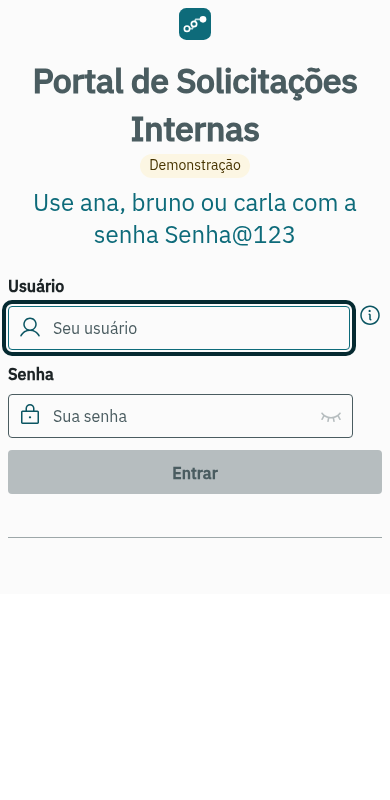
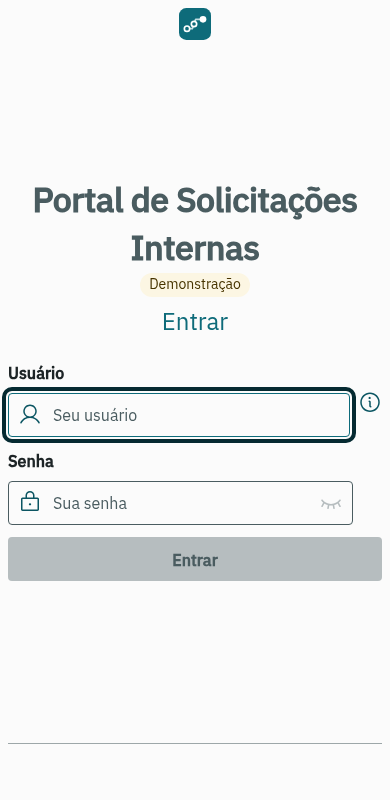
fix(web): fill the login background to the bottom and move demo users to the field hint
A imagem do login passa a ocupar a altura toda da tela, o desenho não encosta mais no texto, e os usuários de demonstração saem do título: ficam na dica do campo e no README.

Changed region(s): [[0.0, 0.0625, 0.9846, 0.75]]

diff --git a/frontend/src/app/login/login.ts b/frontend/src/app/login/login.ts
@@ -18,6 +18,9 @@ import { AuthService } from '../core/auth.service';
     // Só para o leitor de tela: a mensagem visível é a do campo.
     .login-failure {
       position: absolute;
+      top: 0;
+      left: 0;
+      margin: 0;
       width: 1px;
       height: 1px;
       overflow: hidden;
@@ -33,11 +36,12 @@ export class Login {
   private readonly host = inject<ElementRef<HTMLElement>>(ElementRef);
 
   protected readonly literals: PoPageLoginLiterals = {
-    // Ambiente de demonstração: quem avalia entra sem precisar abrir o README.
-    welcome: 'Use ana, bruno ou carla com a senha Senha@123',
+    welcome: 'Entrar',
     loginLabel: 'Usuário',
     loginPlaceholder: 'Seu usuário',
-    loginHint: 'ana e bruno são colaboradores; carla é atendente.',
+    // Ambiente de demonstração: os usuários ficam na dica do campo e no README.
+    loginHint:
+      'Usuários de demonstração: ana e bruno (colaboradores) e carla (atendente). Senha: Senha@123',
     passwordLabel: 'Senha',
     passwordPlaceholder: 'Sua senha',
     submitLabel: 'Entrar',

diff --git a/frontend/src/styles.scss b/frontend/src/styles.scss
@@ -49,6 +49,11 @@
   --color-secondary-dark-60-alpha-70: rgba(10, 51, 59, 0.7);
 }
 
+// O po-page-login tem a altura do conteúdo: em telas altas a imagem acabava antes do fim.
+.po-page-login-container {
+  min-height: 100vh;
+}
+
 // A marca no alto do menu: o tema estica a imagem na largura toda.
 .po-menu-logo,
 .po-menu-short-logo {
